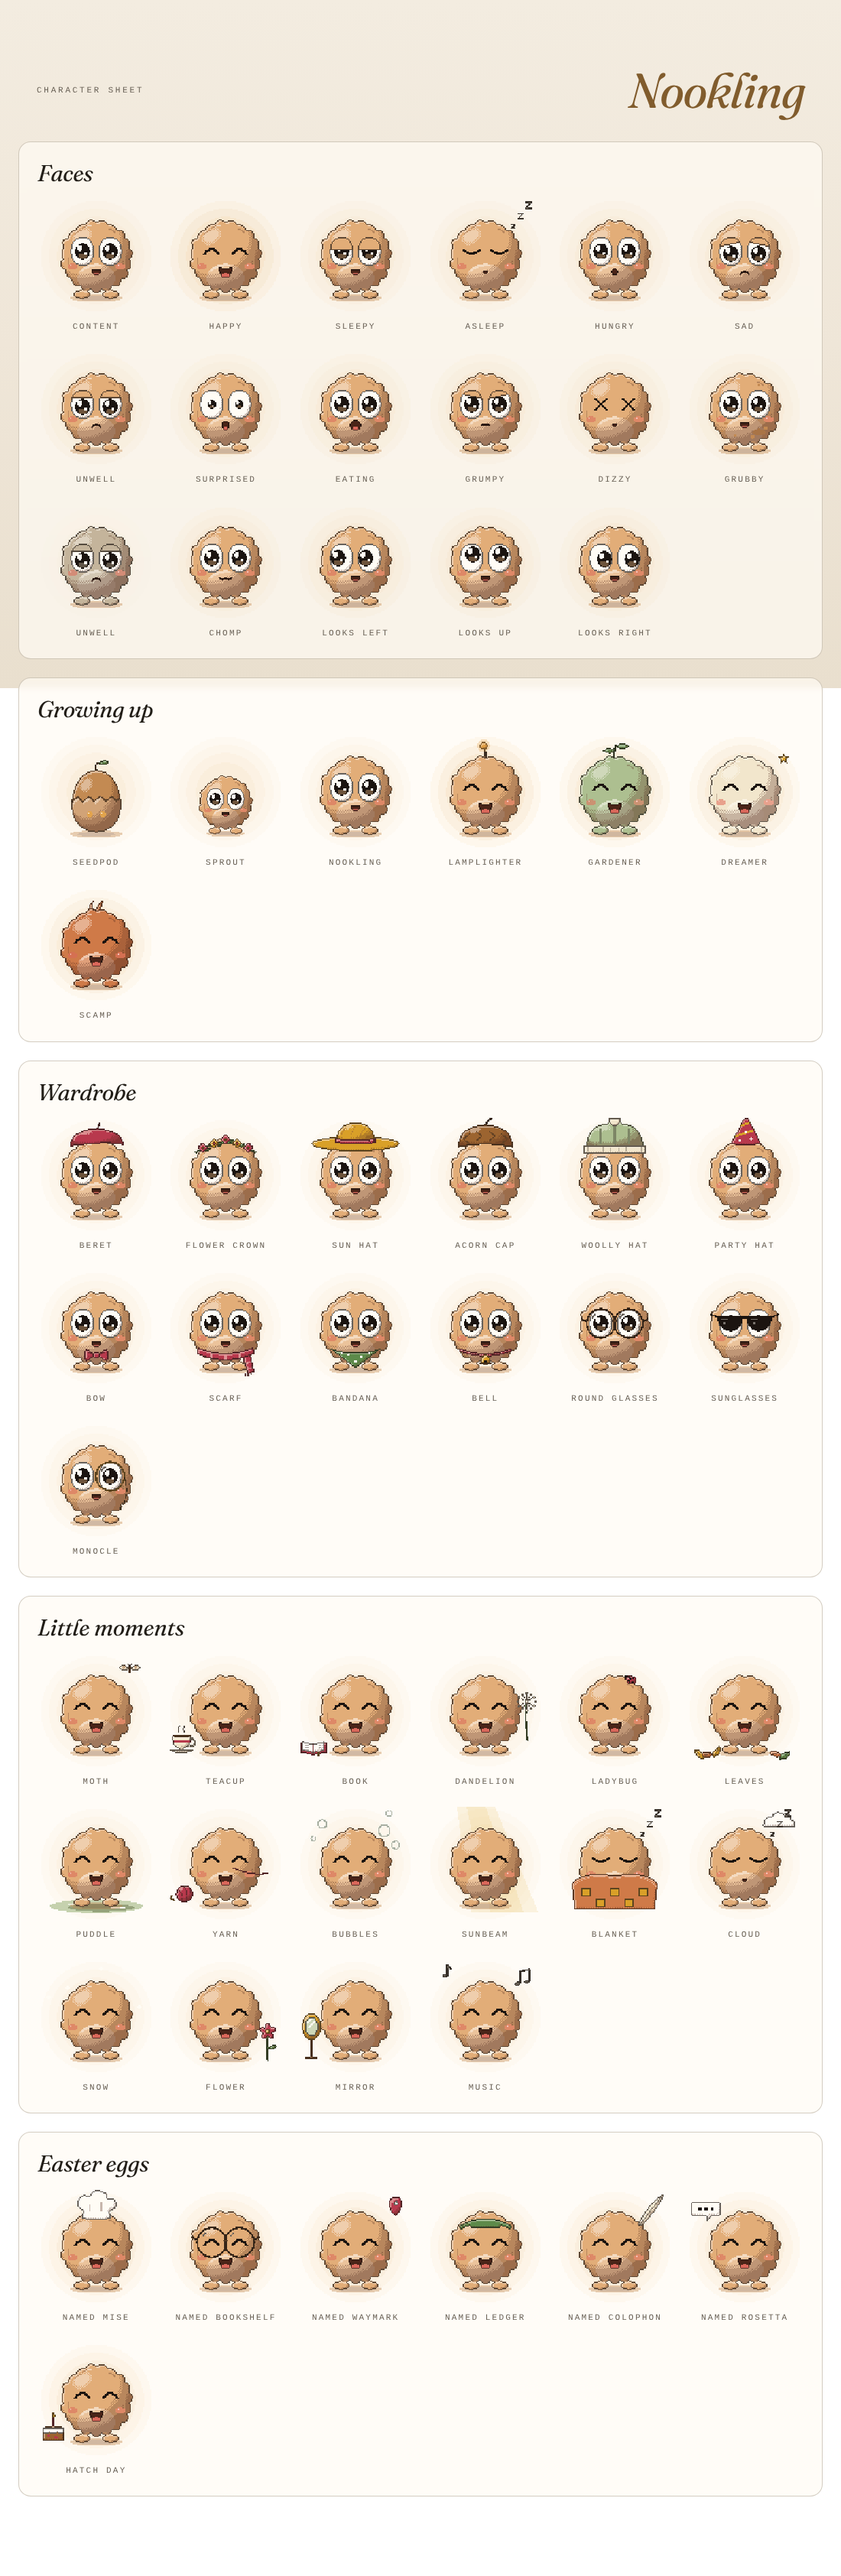
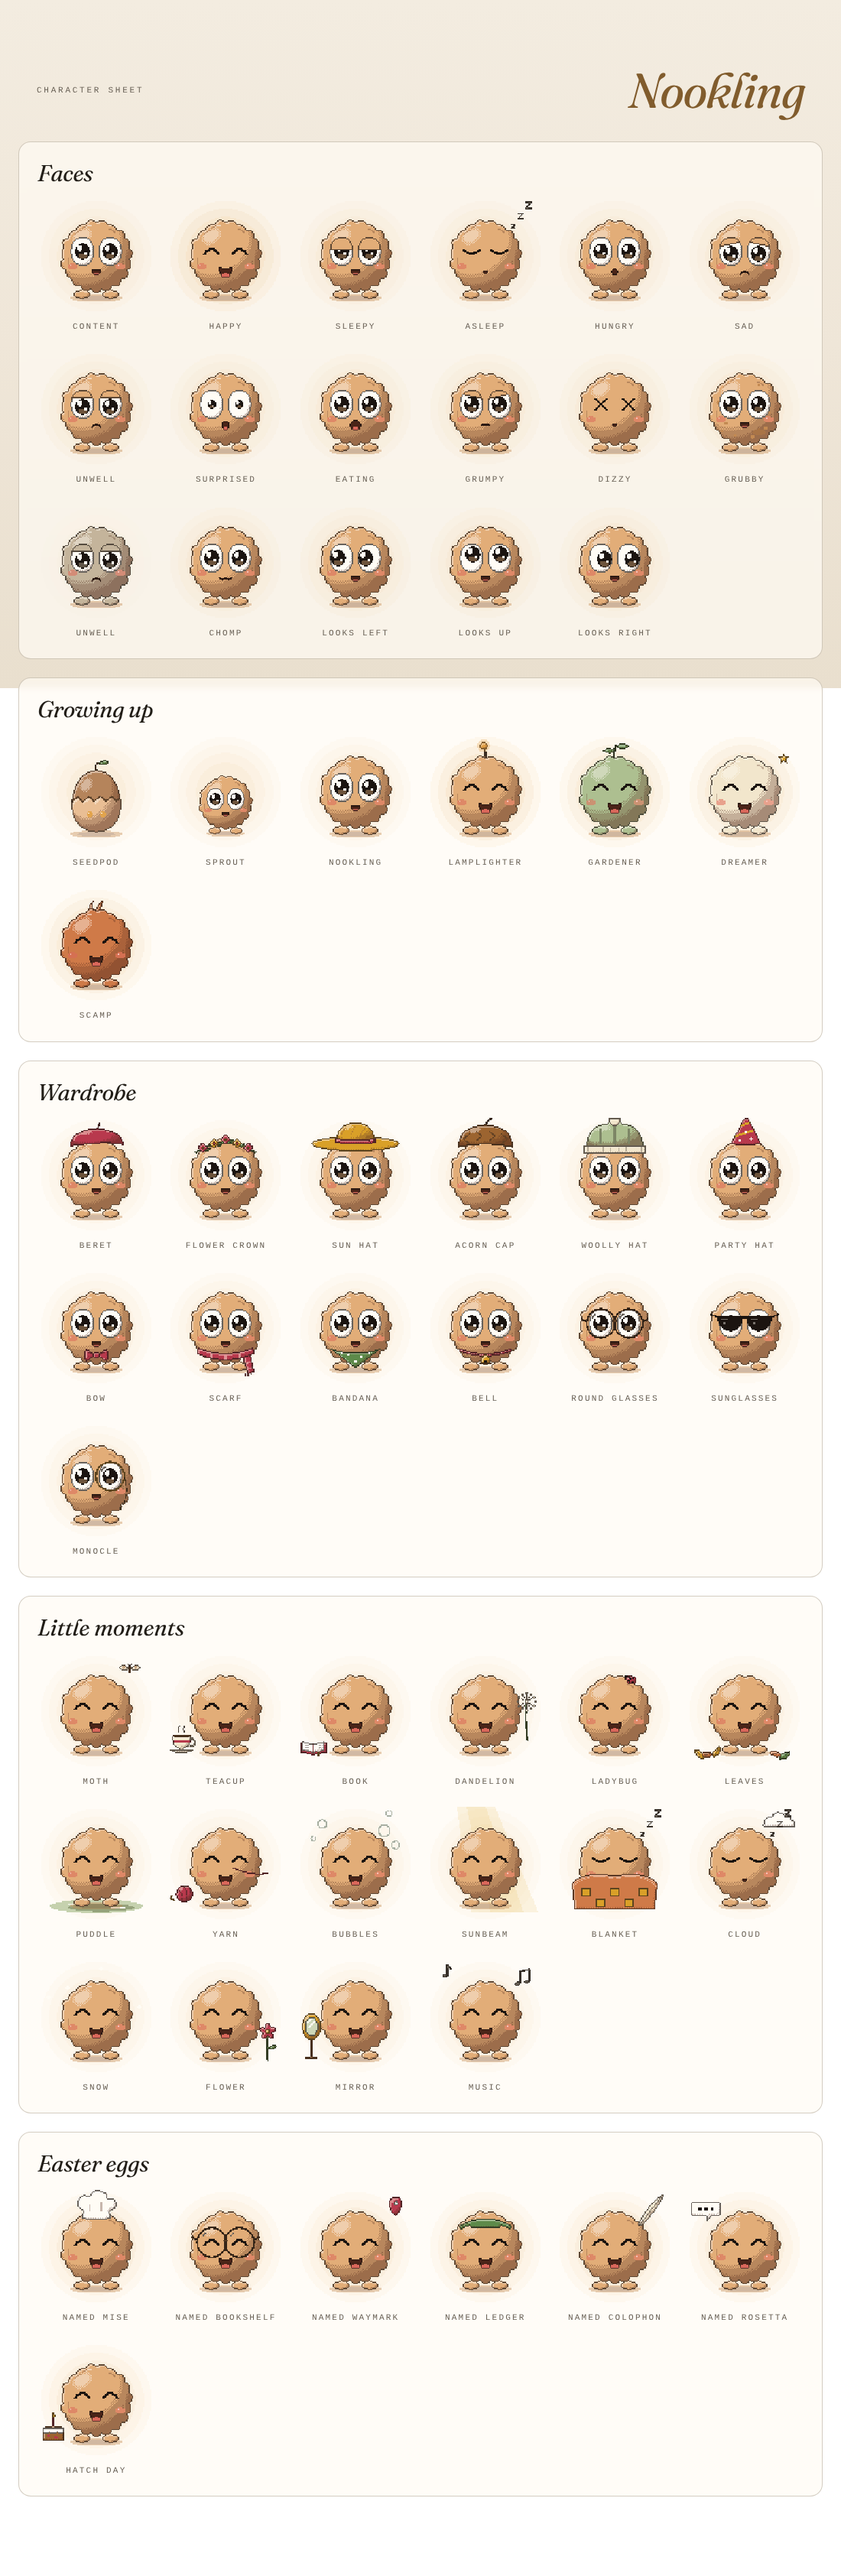
Coats: a random fur colour at adoption, changeable in Settings; no beard
Ten coats, each a token or a mix of two. A new pet gets one at random, an
older pet one from its id, and Settings has swatches and Surprise me. The
pale muzzle patch under the mouth is gone.

Claude-Session: https://claude.ai/code/session_01NBnWz718UidniSeXkEyw4a

diff --git a/src/components/SettingsView.svelte b/src/components/SettingsView.svelte
@@ -85,6 +85,7 @@
     { value: 'dark', key: 'settings.themeDusk' },
     { value: 'light', key: 'settings.themeDawn' },
   ];
+  import { COATS, coatOf, pickCoat } from '../pet/coats';
 </script>
 
 <div id="viewSettings" role="tabpanel" aria-labelledby="tabSettings">
@@ -117,6 +118,23 @@
         </label>
         <button type="submit" class="btn btn-muted" id="btnRename" disabled={!newName.trim() || newName.trim() === pet.name}>{t('settings.rename')}</button>
       </form>
+      <span class="t-field-label coat-label" id="coatLabel">{t('settings.coat')}</span>
+      <div class="coats" role="radiogroup" aria-labelledby="coatLabel">
+        {#each COATS as c (c.id)}
+          <button
+            type="button"
+            role="radio"
+            class="coat dd-pressable"
+            data-coat={c.id}
+            aria-checked={coatOf(pet) === c.id}
+            aria-label={t(`coat.${c.id}` as MessageKey)}
+            title={t(`coat.${c.id}` as MessageKey)}
+            style:--swatch={c.colour}
+            onclick={() => void petState.recolour(c.id)}
+          ></button>
+        {/each}
+        <button type="button" class="btn btn-muted" id="btnCoatRandom" onclick={() => void petState.recolour(pickCoat())}>{t('settings.coatRandom')}</button>
+      </div>
     </div>
   {/if}
   <div class="panel">
@@ -245,5 +263,34 @@
     grid-template-columns: repeat(2, minmax(0, 1fr));
     gap: var(--space-3);
     margin-bottom: var(--space-3);
+  }
+  .coat-label {
+    display: block;
+    margin-top: var(--space-4);
+  }
+  .coats {
+    display: flex;
+    flex-wrap: wrap;
+    align-items: center;
+    gap: var(--space-2);
+    margin-top: var(--space-2);
+  }
+  /* A square swatch with stepped corners, in the pixel idiom. */
+  .coat {
+    width: 44px;
+    height: 44px;
+    padding: 0;
+    border: 0;
+    background: var(--swatch);
+    clip-path: polygon(0 6px, 6px 6px, 6px 0, calc(100% - 6px) 0, calc(100% - 6px) 6px, 100% 6px, 100% calc(100% - 6px), calc(100% - 6px) calc(100% - 6px), calc(100% - 6px) 100%, 6px 100%, 6px calc(100% - 6px), 0 calc(100% - 6px));
+    box-shadow:
+      inset 0 -6px 0 color-mix(in oklab, var(--swatch) 72%, var(--pet-mouth)),
+      inset 0 6px 0 color-mix(in oklab, var(--swatch) 60%, var(--pet-eye));
+    cursor: pointer;
+  }
+  .coat[aria-checked='true'] {
+    box-shadow:
+      inset 0 0 0 4px var(--accent-bright),
+      inset 0 -10px 0 color-mix(in oklab, var(--swatch) 72%, var(--pet-mouth));
   }
 </style>

diff --git a/src/pet/coats.ts b/src/pet/coats.ts
@@ -1,0 +1,71 @@
+// The nookling's coat: the colour of its fur. Picked at random when it is
+// adopted, changeable in Settings. Every coat is a token, or two tokens mixed,
+// so it suits both themes.
+
+export type CoatId =
+  | 'caramel'
+  | 'cream'
+  | 'sage'
+  | 'fox'
+  | 'peach'
+  | 'rose'
+  | 'butter'
+  | 'mint'
+  | 'moss'
+  | 'cocoa';
+
+export const COATS: readonly { id: CoatId; colour: string }[] = [
+  { id: 'caramel', colour: 'var(--pet-fur)' },
+  { id: 'cream', colour: 'var(--pet-fur-cream)' },
+  { id: 'sage', colour: 'var(--pet-fur-sage)' },
+  { id: 'fox', colour: 'var(--pet-fur-rust)' },
+  {
+    id: 'peach',
+    colour: 'color-mix(in oklab, var(--pet-tongue) 45%, var(--pet-fur-cream))',
+  },
+  {
+    id: 'rose',
+    colour:
+      'color-mix(in oklab, var(--pet-food-berry) 42%, var(--pet-fur-cream))',
+  },
+  {
+    id: 'butter',
+    colour:
+      'color-mix(in oklab, var(--pet-food-honey) 60%, var(--pet-fur-cream))',
+  },
+  {
+    id: 'mint',
+    colour:
+      'color-mix(in oklab, var(--pet-food-leaf) 40%, var(--pet-fur-cream))',
+  },
+  {
+    id: 'moss',
+    colour:
+      'color-mix(in oklab, var(--pet-food-leaf) 80%, var(--pet-fur-cream))',
+  },
+  {
+    id: 'cocoa',
+    colour: 'color-mix(in oklab, var(--pet-fur-shade) 78%, var(--pet-mouth))',
+  },
+];
+
+export function isCoat(id: unknown): id is CoatId {
+  return COATS.some((c) => c.id === id);
+}
+
+/** A coat at random (Math.random in the app, fixed in tests). */
+export function pickCoat(random: () => number = Math.random): CoatId {
+  return COATS[Math.floor(random() * COATS.length)]?.id ?? 'caramel';
+}
+
+/** Its coat; a pet from before coats gets one from its id, the same every time. */
+export function coatOf(pet: { id: string; coat?: CoatId }): CoatId {
+  if (isCoat(pet.coat)) return pet.coat;
+  let h = 0;
+  for (const ch of pet.id) h = (h * 31 + ch.charCodeAt(0)) >>> 0;
+  return COATS[h % COATS.length]!.id;
+}
+
+export function coatColour(id: CoatId): string {
+  return COATS.find((c) => c.id === id)?.colour ?? 'var(--pet-fur)';
+}

diff --git a/src/pet/sprite.ts b/src/pet/sprite.ts
@@ -24,21 +24,21 @@ const SPECKS = [
   [30, -50, 2.2],
 ] as const;
 
-/** The body: fluff, feet, belly, tufts, dust. */
+/** The body: fluff, feet, tufts, dust. */
 export function bodyArt(stage: Stage, form: Form | null, grubby: number): Art {
   const fur = P.fur;
   if (stage === "seedpod") {
     return {
       layers: [
         fill(
-          P.furShade,
+          mix(fur, P.mouth, 72),
           path(
             "M0 -46C34 -46 52 -6 52 26C52 62 30 84 0 84C-30 84 -52 62 -52 26C-52 -6 -34 -46 0 -46Z",
           ),
           { shade: "ball", name: "pod" },
         ),
         fill(
-          mix(P.furShade, P.white, 78),
+          mix(fur, P.white, 78),
           path(
             "M-50 18L-38 10L-28 20L-16 9L-4 19L8 8L20 19L32 9L42 18L51 12L52 26C52 62 30 84 0 84C-30 84 -52 62 -52 26Z",
           ),
@@ -97,14 +97,6 @@ export function bodyArt(stage: Stage, form: Form | null, grubby: number): Art {
     layers.push(line(mix(P.fur, P.ink, 50), 3.5, "M0 -70Q2 -84 -4 -94"));
   }
   layers.push(fill(fur, path(BODY_PATH), { shade: "ball", name: "body" }));
-  // A paler belly and muzzle.
-  layers.push(
-    fill(mix(fur, P.white, 72), [ellipse(0, 46, 40, 30)], {
-      clip: "body",
-      shade: "ball",
-      edge: false,
-    }),
-  );
   // Tufts: short strokes of the shade tone, so the fluff reads as fluff.
   layers.push(
     line(
@@ -116,8 +108,6 @@ export function bodyArt(stage: Stage, form: Form | null, grubby: number): Art {
         "M40 -48q-6 -8 -14 -9",
         "M-58 4q-3 8 0 16",
         "M58 4q3 8 0 16",
-        "M-24 72q4 -4 9 -4",
-        "M24 72q-4 -4 -9 -4",
       ],
       { clip: "body" },
     ),

diff --git a/src/state/pet.svelte.ts b/src/state/pet.svelte.ts
@@ -2,6 +2,7 @@
 // every half minute while open), applies care, and saves after every change.
 // The rules themselves are in src/domain/pet.ts.
 
+import { coatOf, pickCoat, type CoatId } from '../pet/coats';
 import { db, type LogEntry, type Photo } from '../data/db';
 import type { BackupData } from '../lib/backup';
 import { goodDay } from '../domain/delights';
@@ -70,7 +71,7 @@ class PetState {
 
   /** Starts a new seedpod. */
   async adopt(name: string, now = Date.now()): Promise<void> {
-    const pet = newPet(uid(), name.trim().slice(0, 24) || 'Nookling', now, rollTraits());
+    const pet = newPet(uid(), name.trim().slice(0, 24) || 'Nookling', now, rollTraits(), pickCoat());
     await this.save(pet, [{ kind: 'named', at: now, detail: pet.name }]);
   }
 
@@ -166,6 +167,13 @@ class PetState {
     const clean = name.trim().slice(0, 24);
     if (!pet || !clean || clean === pet.name) return;
     await this.save({ ...pet, name: clean }, [{ kind: 'named', at: Date.now(), detail: clean }]);
+  }
+
+  /** A new coat colour. */
+  async recolour(coat: CoatId): Promise<void> {
+    const pet = this.pet;
+    if (!pet || coatOf(pet) === coat) return;
+    await this.save({ ...pet, coat }, []);
   }
 
   /** Keeps a picture in the album. */

diff --git a/src/domain/pet.ts b/src/domain/pet.ts
@@ -7,6 +7,7 @@
 // minute while open, and the notification scheduler simulates ahead.
 // ============================================================
 
+import type { CoatId } from '../pet/coats';
 import { clockMinutes } from './settings';
 import type { Food } from './foods';
 import type { Form, Stage } from '../pet/types';
@@ -56,6 +57,8 @@ export interface Pet {
   warmth: number;
   stage: Stage;
   form: Form | null;
+  /** The colour of its fur (src/pet/coats.ts). Older pets have none and get one from their id. */
+  coat?: CoatId;
   traits: Trait[];
   needs: Needs;
   /** Hidden. Falls only while two or more needs sit below a fifth. */
@@ -167,10 +170,11 @@ const TRAIT_RATES: Record<Trait, Partial<Needs>> = {
   chatty: { mood: 1.1 },
 };
 
-export function newPet(id: string, name: string, now: number, traits: Trait[]): Pet {
+export function newPet(id: string, name: string, now: number, traits: Trait[], coat?: CoatId): Pet {
   return {
     id,
     name,
+    ...(coat ? { coat } : {}),
     createdAt: now,
     hatchedAt: null,
     warmth: 0,

diff --git a/tests/e2e/nook.spec.ts b/tests/e2e/nook.spec.ts
@@ -130,6 +130,16 @@ test('gives food from the Pantry, drags food to the pet, and renames it', async 
   await page.locator('#renameInput').fill('Pipkin');
   await page.locator('#btnRename').click();
   await expect(toast).toContainText('Hello, Pipkin.');
+
+  // A new coat: the pet is drawn in it at once, and it stays after a reload.
+  await expect(page.locator('[data-coat][aria-checked="true"]')).toHaveCount(1);
+  await page.locator('[data-coat="rose"]').click();
+  await expect(page.locator('[data-coat="rose"]')).toHaveAttribute('aria-checked', 'true');
+  const coat = () => page.evaluate(() => document.documentElement.style.getPropertyValue('--pet-coat'));
+  expect(await coat()).toContain('--pet-food-berry');
+  await page.reload();
+  await page.locator('#tabSettings').click();
+  await expect(page.locator('[data-coat="rose"]')).toHaveAttribute('aria-checked', 'true');
 });
 
 test('leaves the pet with a sitter and brings it home', async ({ page }) => {

diff --git a/src/App.svelte b/src/App.svelte
@@ -1,4 +1,5 @@
 <script lang="ts">
+  import { coatColour, coatOf } from './pet/coats';
   import { IconTabs, ThemeToggle, Toast, konami, play, secretTaps } from 'dusk-dawn';
   import { cheer, hatchEgg } from './lib/delight';
   import Icon from './components/ui/Icon.svelte';
@@ -25,6 +26,12 @@
   $effect(() => applyTheme(settings.current.theme));
   $effect(() => setSound(settings.current.sound));
   $effect(() => setHaptics(settings.current.haptics));
+  // Its coat, for every picture of it on the page (Pet.svelte reads --pet-coat).
+  $effect(() => {
+    const pet = petState.pet;
+    if (pet) document.documentElement.style.setProperty('--pet-coat', coatColour(coatOf(pet)));
+    else document.documentElement.style.removeProperty('--pet-coat');
+  });
   // Easter eggs (style.md §11.3). The Konami code: a somersault and sparks.
   // Seven taps on the title: the fluff tickles its nose.
   let title = $state<HTMLElement>();

diff --git a/src/lib/backup.ts b/src/lib/backup.ts
@@ -4,6 +4,7 @@
 // there is one pet, so there is nothing to merge.
 // ============================================================
 
+import { isCoat } from '../pet/coats';
 import { strFromU8, strToU8, unzip, zip, type AsyncZippable, type Unzipped } from 'fflate';
 import type { LogEntry, Photo } from '../data/db';
 import { NEEDS, newPet, TRAITS, type Pet } from '../domain/pet';
@@ -51,6 +52,7 @@ export function normalisePet(raw: unknown): Pet | null {
     warmth: unit(r.warmth, 0),
     stage: r.stage as Pet['stage'],
     form: FORMS.includes(r.form as string) ? (r.form as Pet['form']) : null,
+    ...(isCoat(r.coat) ? { coat: r.coat } : {}),
     traits: Array.isArray(r.traits) ? (r.traits.filter((t) => TRAITS.includes(t)) as Pet['traits']).slice(0, 2) : [],
     needs,
     health: unit(r.health, 1),

diff --git a/tests/unit/pixel.test.ts b/tests/unit/pixel.test.ts
@@ -246,3 +246,14 @@ describe("pixel art", () => {
     expect([...fills].every((f) => f.includes("--border-soft"))).toBe(true);
   });
 });
+
+describe('coats', () => {
+  it('picks one at random, keeps an older pet’s the same every time, and draws with it', async () => {
+    const { COATS, coatOf, pickCoat, coatColour } = await import('../../src/pet/coats');
+    expect(pickCoat(() => 0)).toBe(COATS[0]!.id);
+    expect(pickCoat(() => 0.999)).toBe(COATS.at(-1)!.id);
+    expect(coatOf({ id: 'abc' })).toBe(coatOf({ id: 'abc' }));
+    expect(coatOf({ id: 'abc', coat: 'rose' })).toBe('rose');
+    for (const c of COATS) expect(coatColour(c.id)).not.toMatch(/#[0-9a-f]{3,8}\b|rgba?\(\s*\d/i);
+  });
+});

diff --git a/src/i18n/en.ts b/src/i18n/en.ts
@@ -668,6 +668,18 @@ const en = {
   'settings.dawnSwitch': 'Dawn theme',
   'settings.pet': 'Your nookling',
   'settings.rename': 'Rename',
+  'settings.coat': 'Coat colour',
+  'settings.coatRandom': 'Surprise me',
+  'coat.caramel': 'Caramel',
+  'coat.cream': 'Cream',
+  'coat.sage': 'Sage',
+  'coat.fox': 'Fox',
+  'coat.peach': 'Peach',
+  'coat.rose': 'Rose',
+  'coat.butter': 'Butter',
+  'coat.mint': 'Mint',
+  'coat.moss': 'Moss',
+  'coat.cocoa': 'Cocoa',
   'settings.renamed': 'Hello, {name}.',
   'settings.day': 'Its day',
   'settings.bedtime': 'Bedtime',

diff --git a/src/pet/Pet.svelte b/src/pet/Pet.svelte
@@ -55,7 +55,8 @@
   }: Props = $props();
   const BEHIND: readonly MomentProp[] = ['sunbeam', 'puddle', 'cloud'];
 
-  const fur = $derived(`var(${furToken(stage, form, unwell)})`);
+  // Its coat (set on the page from the pet's data, src/pet/coats.ts), unless it is unwell.
+  const fur = $derived(unwell ? 'var(--pet-fur-unwell)' : `var(--pet-coat, var(${furToken(stage, form, false)}))`);
   const scale = $derived(stage === 'sprout' ? 0.74 : 1);
   const glowLevel = $derived(clamp(glow, 0, 1) * (stage === 'grown' && form === 'lamplighter' ? 1 : 0.8));
 
